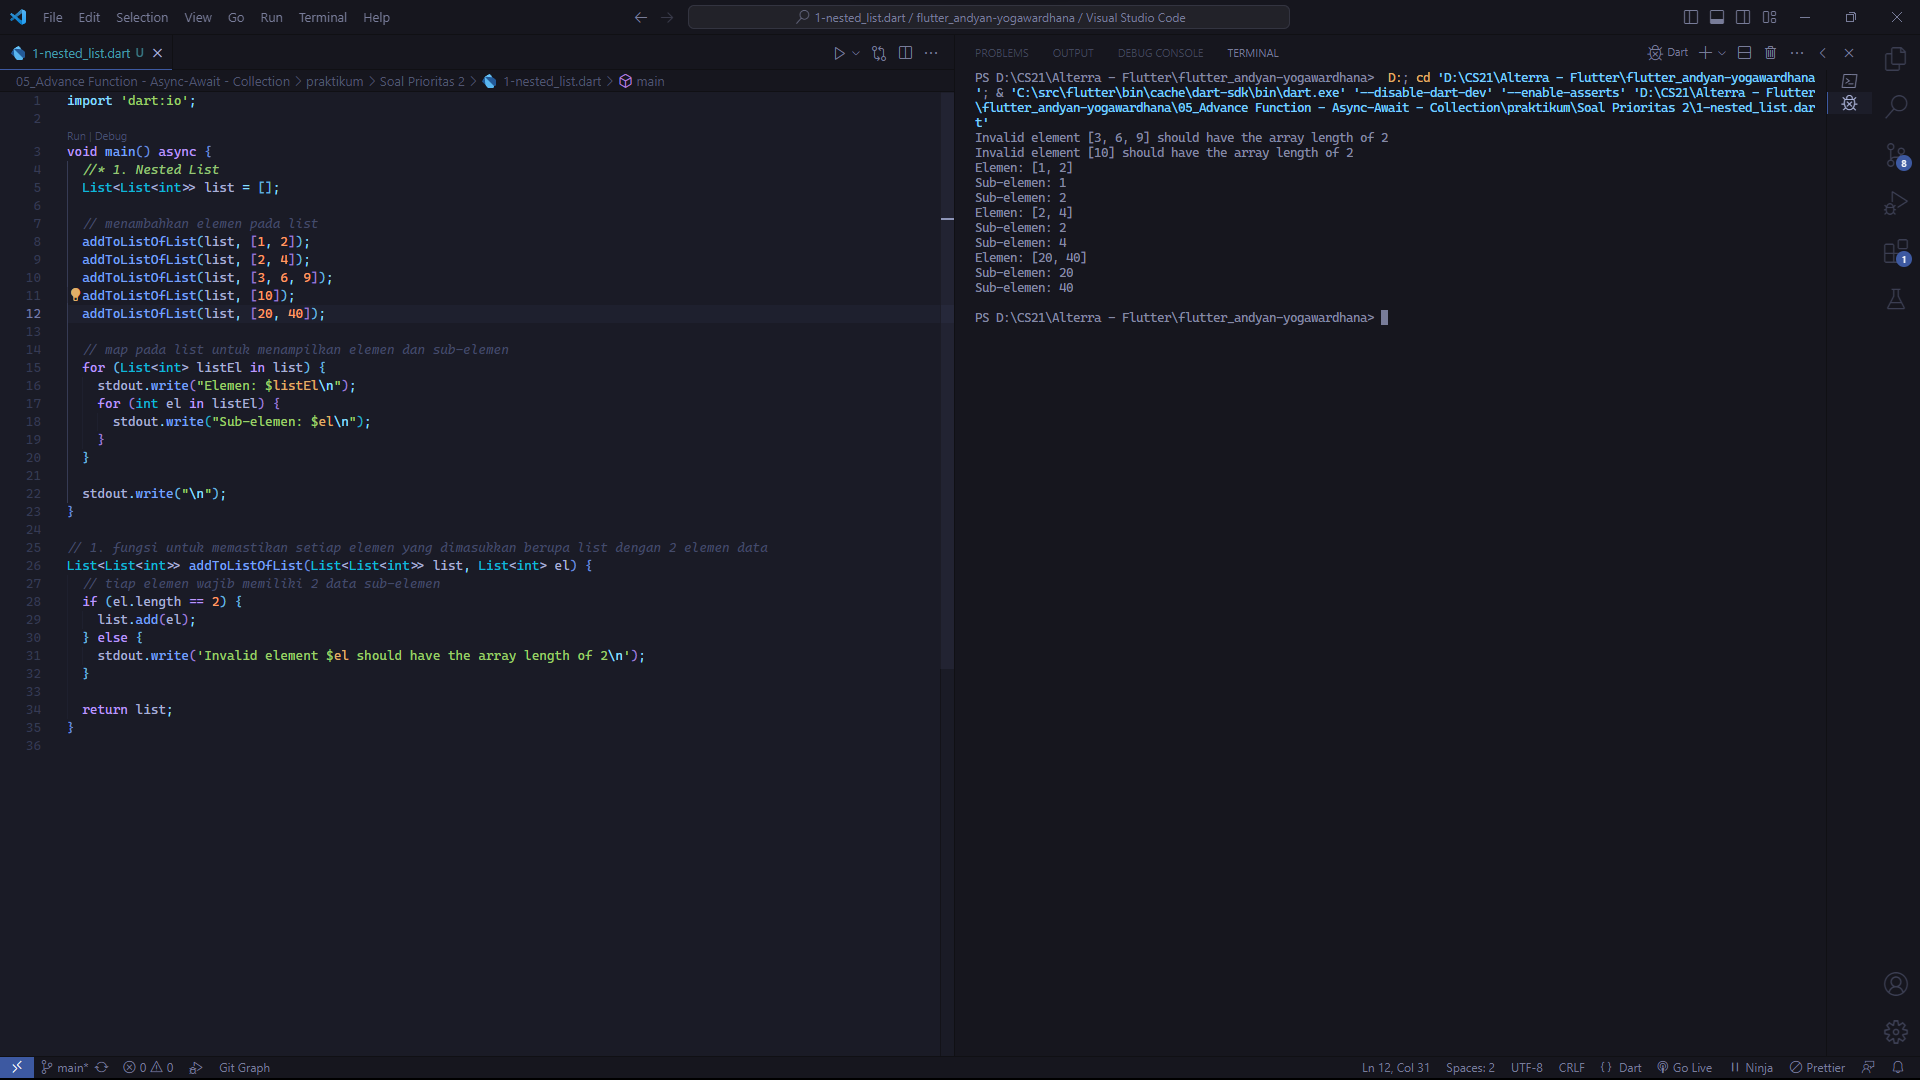
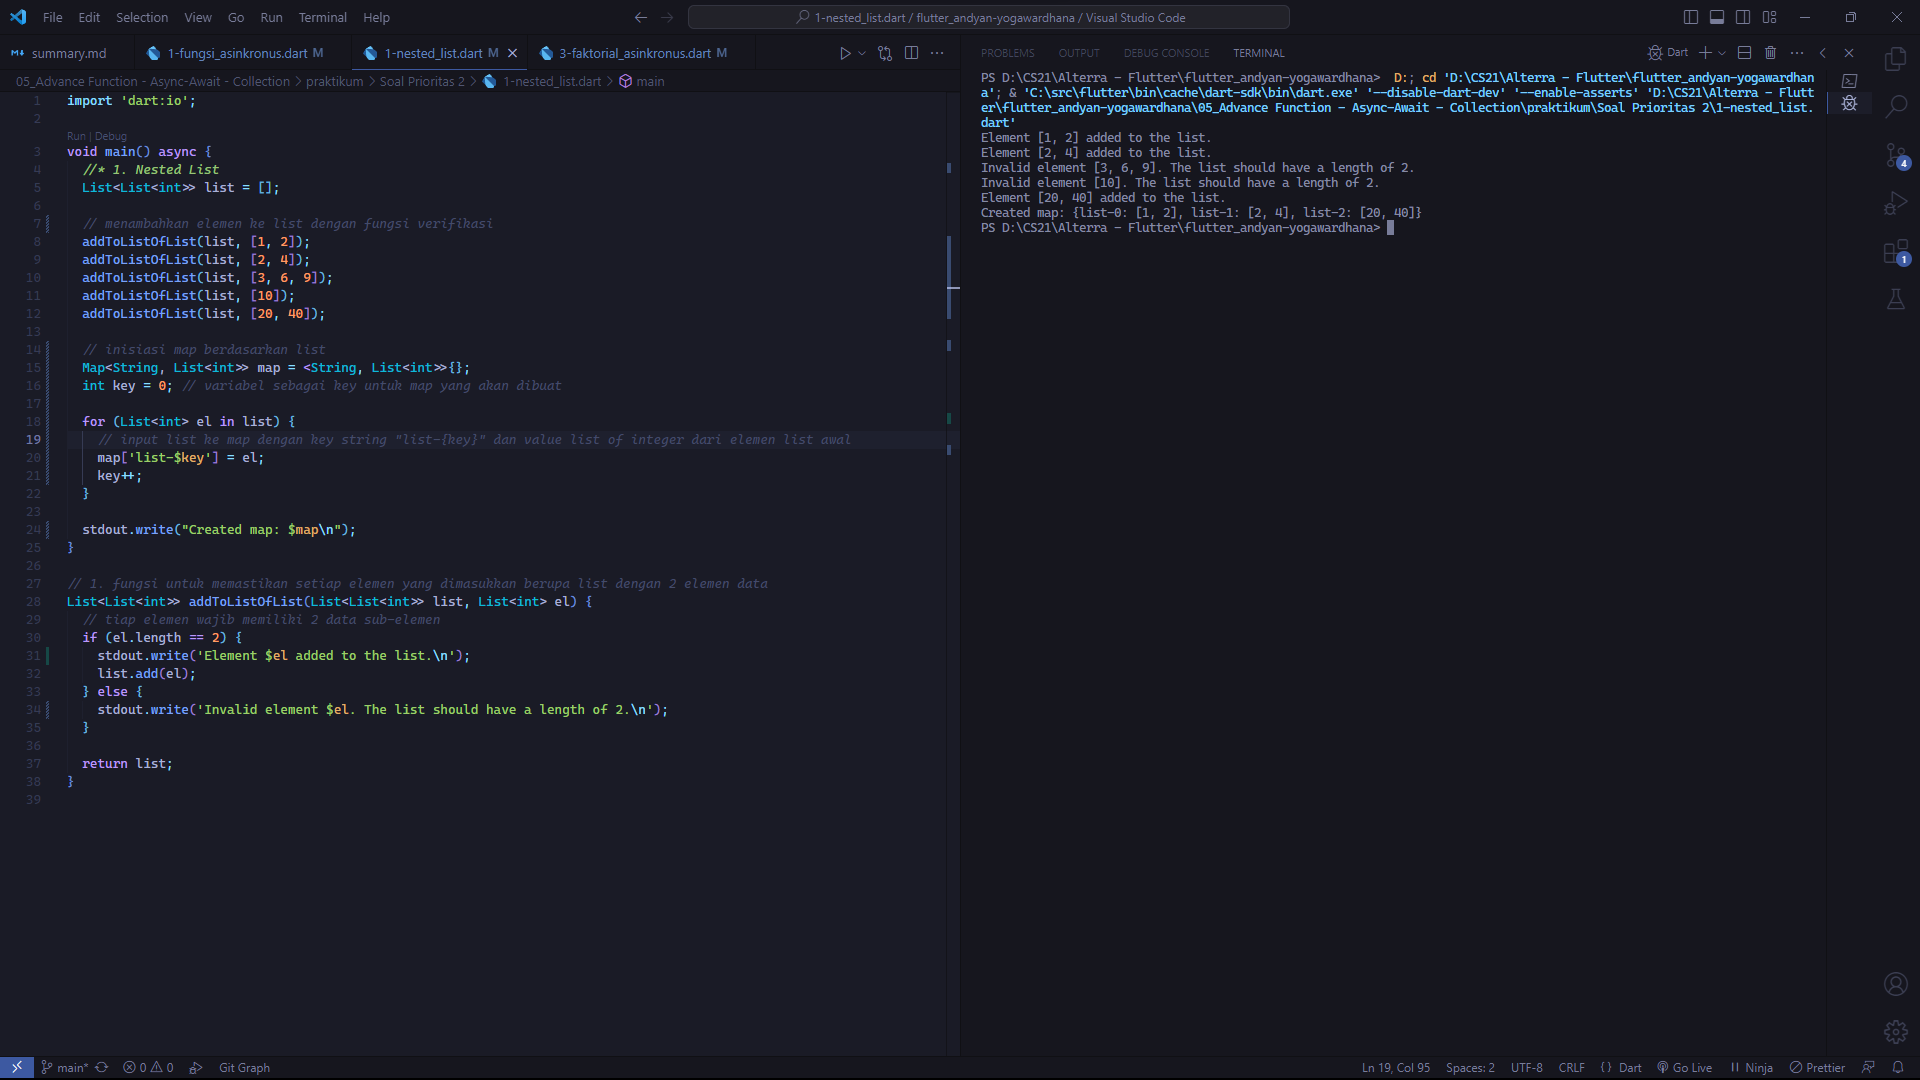
fix - revisi tugas 5 (tambah delay, comment, fix map & input)

diff --git a/05_Advance Function - Async-Await - Collection/praktikum/Soal Prioritas 1/1-fungsi_asinkronus.dart b/05_Advance Function - Async-Await - Collection/praktikum/Soal Prioritas 1/1-fungsi_asinkronus.dart
@@ -1,19 +1,41 @@
+import 'dart:io';
+
 void main() async {
   //* 1. Fungsi Asinkronus
-  List<double> data = [10, 25.5, 30, 4.05]; // list data
-  int multiplier = 2; // pengali
+  List<double> list = []; // list data
 
-  // memasukkan list data dan pengali ke parameter fungsi
-  print(await multiply(data, multiplier));
+  stdout.write("Masukkan data list (ketik 'ok' jika selesai):\n");
+  while (true) {
+    String input = stdin.readLineSync()!;
+    // proses input data selesai jika user memasukkan 'ok'
+    if (input.toLowerCase() == 'ok') break;
+
+    // jika input tidak kosong, masukkan ke list
+    if (input != "") list.add(double.parse(input));
+  }
+
+  // input nilai pengali
+  stdout.write("Masukkan nilai pengali: ");
+  int multiplier = int.parse(stdin.readLineSync()!);
+
+  // memasukkan list data dan pengali ke parameter fungsi dan menyimpan ke variabel
+  List<double> result = await multiply(list, multiplier);
+  stdout.write("List baru: $result");
 }
 
 // 1. fungsi yang menerima 2 parameter untuk mengalikan setiap elemen list dengan nilai tertentu secara asynchronous
-Future<List<double>> multiply(List<double> data, int multiplier) async {
-  List<double> newData = []; // list baru untuk menampung hasil perkalian
+Future<List<double>> multiply(List<double> list, int multiplier) async {
+  List<double> newlist = []; // list baru untuk menampung hasil perkalian
 
-  // perulangan secara asynchronous yang mengalikan elemen list data dengan pengali
-  await Future.forEach(data, (element) => newData.add(element * multiplier));
+  // perulangan secara asynchronous yang mengalikan elemen list dengan pengali
+  for (double el in list) {
+    await Future.delayed(Duration(seconds: 1), () {
+      // input hasil perkalian ke list baru
+      newlist.add(el * multiplier);
+      stdout.write("${el * multiplier}\n");
+    });
+  }
 
   // return list baru hasil proses perkalian
-  return newData;
+  return newlist;
 }

diff --git a/05_Advance Function - Async-Await - Collection/praktikum/Soal Prioritas 2/1-nested_list.dart b/05_Advance Function - Async-Await - Collection/praktikum/Soal Prioritas 2/1-nested_list.dart
@@ -4,31 +4,34 @@ void main() async {
   //* 1. Nested List
   List<List<int>> list = [];
 
-  // menambahkan elemen pada list
+  // menambahkan elemen ke list dengan fungsi verifikasi
   addToListOfList(list, [1, 2]);
   addToListOfList(list, [2, 4]);
   addToListOfList(list, [3, 6, 9]);
   addToListOfList(list, [10]);
   addToListOfList(list, [20, 40]);
 
-  // map pada list untuk menampilkan elemen dan sub-elemen
-  for (List<int> listEl in list) {
-    stdout.write("Elemen: $listEl\n");
-    for (int el in listEl) {
-      stdout.write("Sub-elemen: $el\n");
-    }
+  // inisiasi map berdasarkan list
+  Map<String, List<int>> map = <String, List<int>>{};
+  int key = 0; // variabel sebagai key untuk map yang akan dibuat
+
+  for (List<int> el in list) {
+    // input list ke map dengan key string "list-{key}" dan value list of integer dari elemen list awal
+    map['list-$key'] = el;
+    key++;
   }
 
-  stdout.write("\n");
+  stdout.write("Created map: $map\n");
 }
 
 // 1. fungsi untuk memastikan setiap elemen yang dimasukkan berupa list dengan 2 elemen data
 List<List<int>> addToListOfList(List<List<int>> list, List<int> el) {
   // tiap elemen wajib memiliki 2 data sub-elemen
   if (el.length == 2) {
+    stdout.write('Element $el added to the list.\n');
     list.add(el);
   } else {
-    stdout.write('Invalid element $el should have the array length of 2\n');
+    stdout.write('Invalid element $el. The list should have a length of 2.\n');
   }
 
   return list;

diff --git a/05_Advance Function - Async-Await - Collection/praktikum/Soal Prioritas 2/3-faktorial_asinkronus.dart b/05_Advance Function - Async-Await - Collection/praktikum/Soal Prioritas 2/3-faktorial_asinkronus.dart
@@ -1,16 +1,23 @@
 import 'dart:io';
 
 void main() async {
-  //* 3. Faktorial Asinkron
+  //* 3. Faktorial Asinkronus
+  // input angka yang akan dicari nilai faktorialnya
   int num = int.parse(stdin.readLineSync()!);
 
-  stdout.write(await faktorial(num));
+  // menghitung faktorial angka secara asinkronus dan menyimpan ke variabel
+  int result = await faktorial(num);
+
+  stdout.write("\n$result");
 }
 
-// 3. fungsi perhitungan bilangan faktorial
+// 3. fungsi perhitungan bilangan faktorial secara asinkronus
 Future<int> faktorial(int num) async {
-  if (num == 1)
-    return 1;
-  else
-    return num * await faktorial(num - 1);
+  return await Future.delayed(Duration(seconds: 1), () async {
+    stdout.write("$num ");
+    if (num == 1)
+      return 1; // base case
+    else
+      return num * await faktorial(num - 1); // fungsi rekursif
+  });
 }
